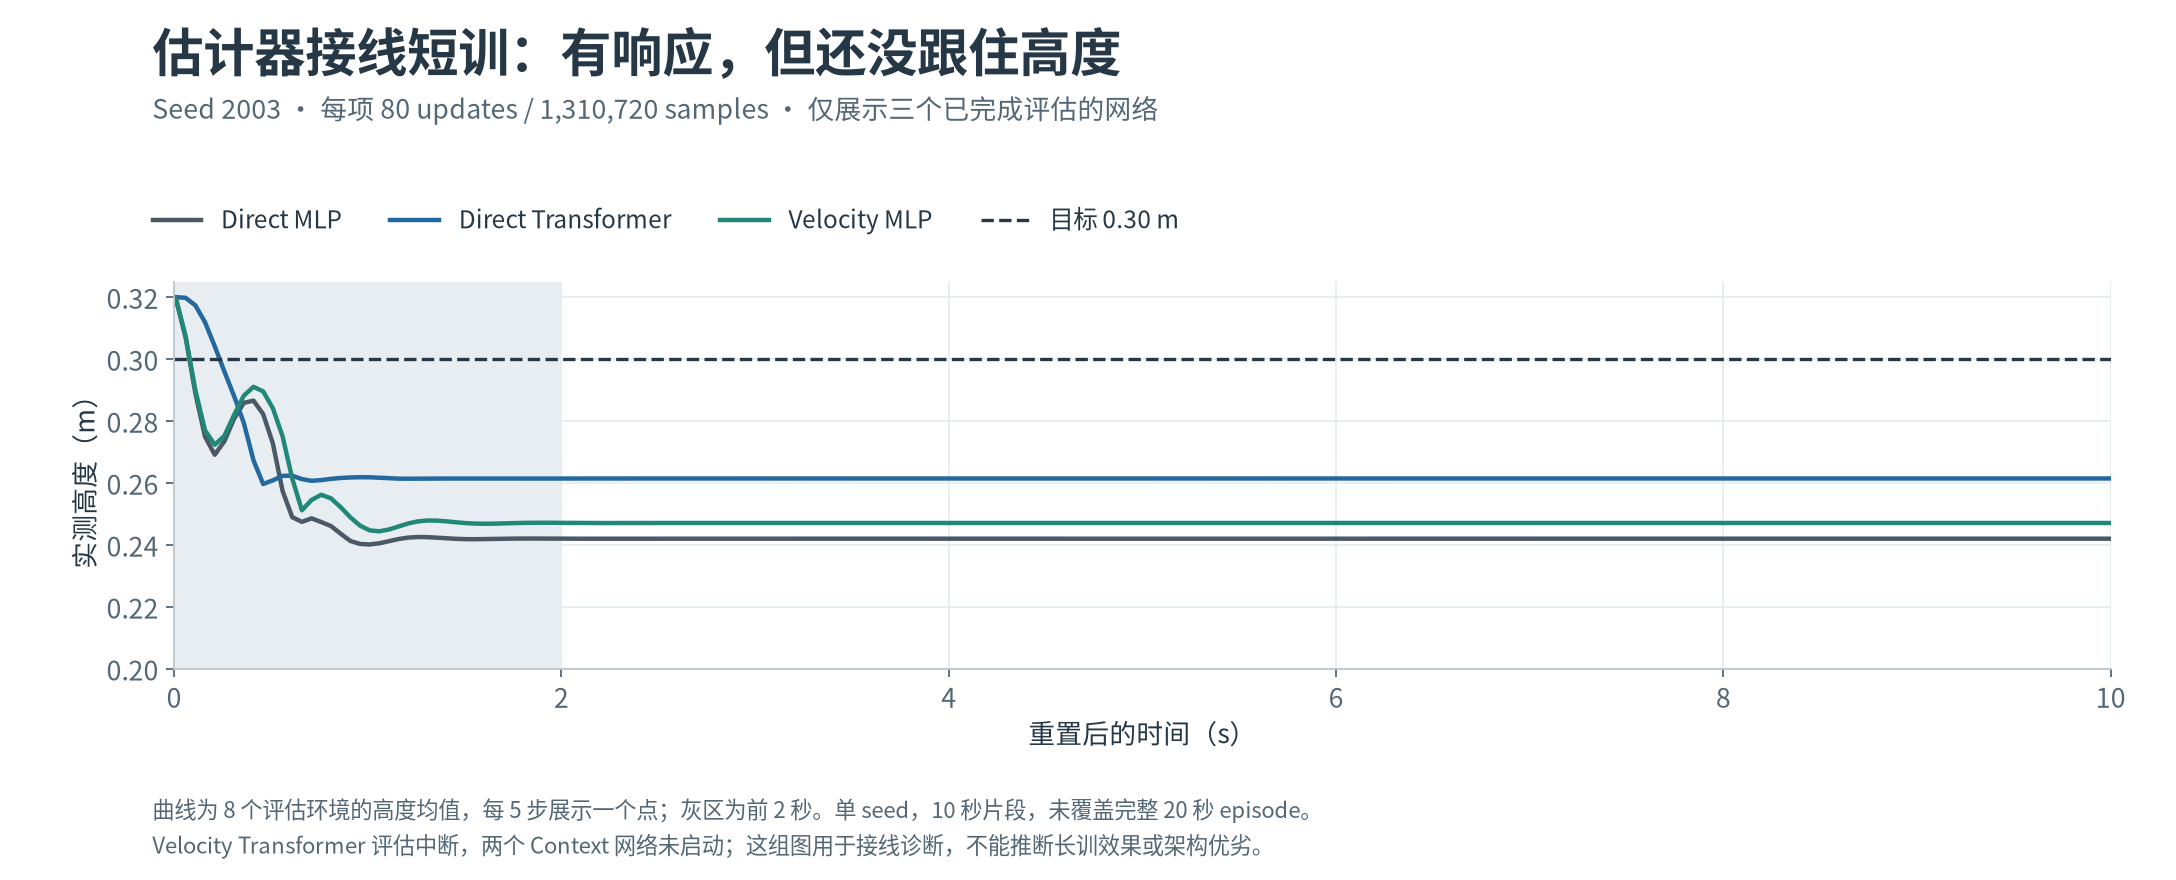
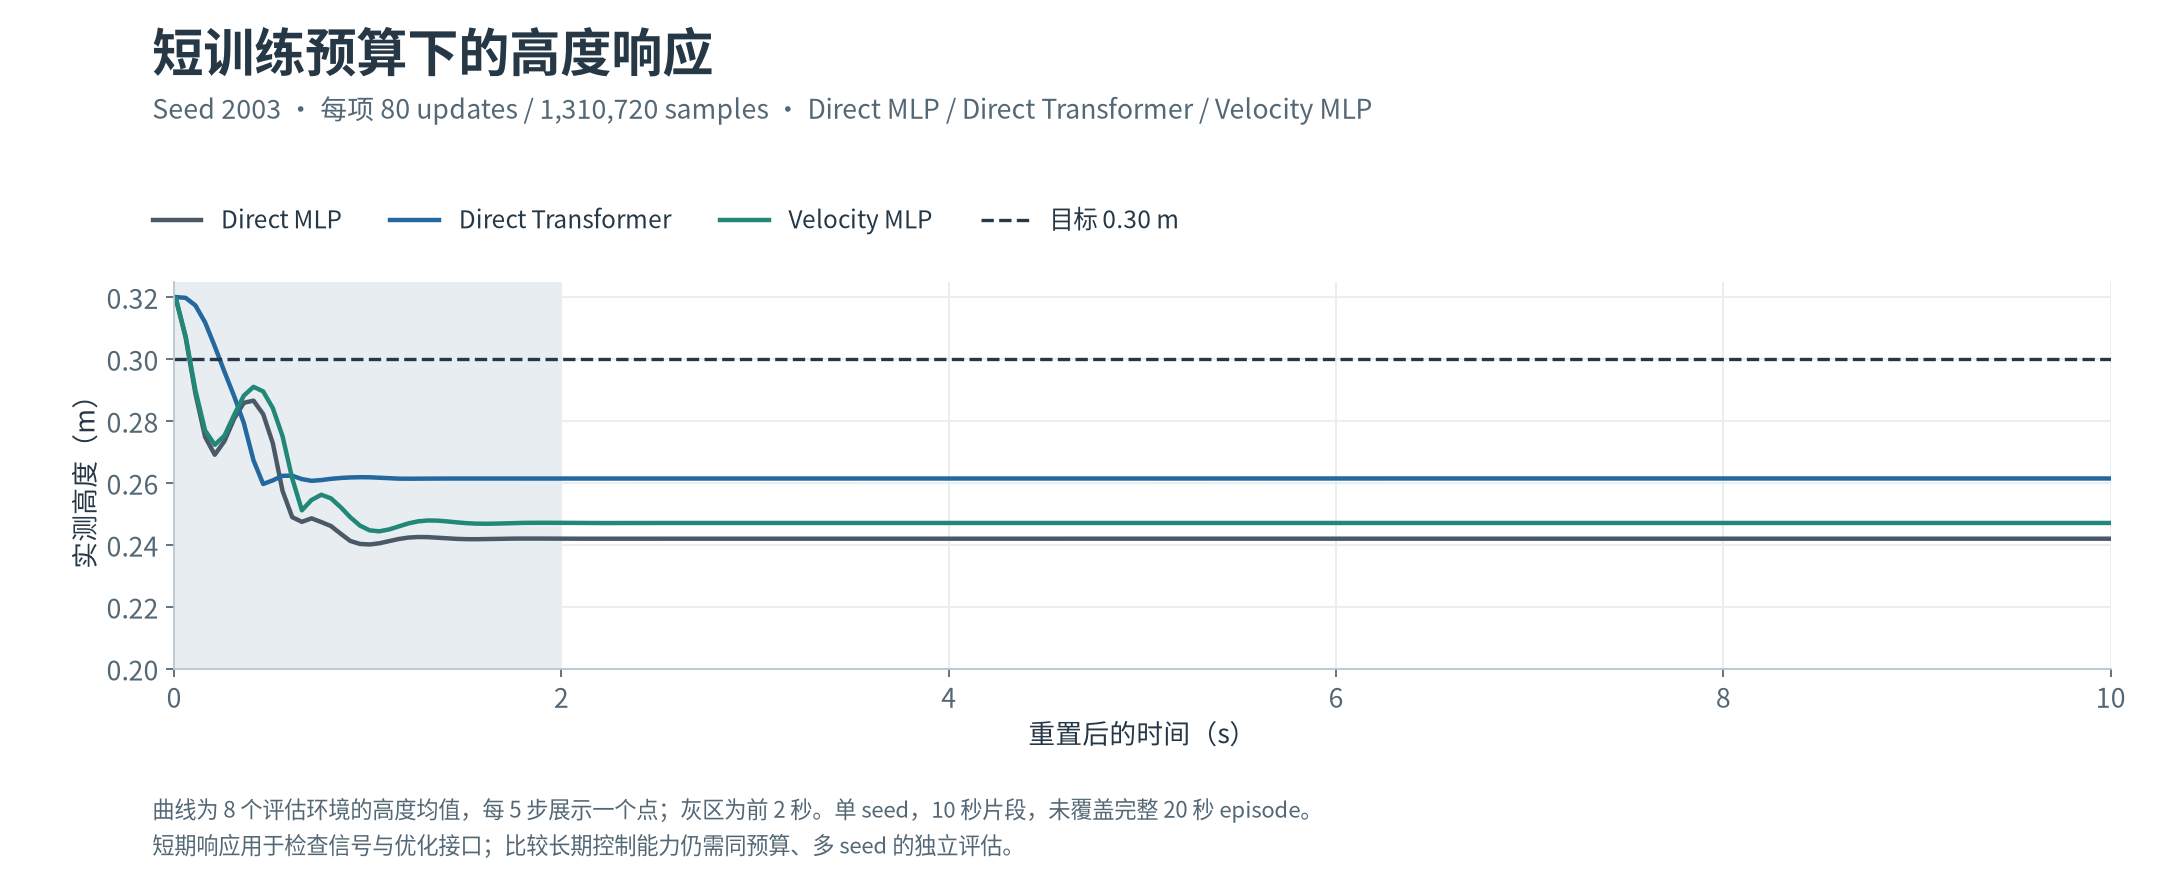
Focus README on architecture usage and experimental analysis

diff --git a/tools/readme_figures.py b/tools/readme_figures.py
@@ -244,8 +244,8 @@ def render():
     ax.set(xlabel="重置后的时间（s）", ylabel="实测高度（m）", xlim=(0, 10),
            ylim=(.20, max(.31, height_max) + .005))
     fig.legend(*ax.get_legend_handles_labels(), loc="upper left", bbox_to_anchor=(.06, .79), ncol=4, frameon=False, fontsize=11)
-    finish(fig, [ax], "估计器接线短训：有响应，但还没跟住高度", "Seed 2003 · 每项 80 updates / 1,310,720 samples · 仅展示三个已完成评估的网络",
-           "曲线为 8 个评估环境的高度均值，每 5 步展示一个点；灰区为前 2 秒。单 seed，10 秒片段，未覆盖完整 20 秒 episode。\nVelocity Transformer 评估中断，两个 Context 网络未启动；这组图用于接线诊断，不能推断长训效果或架构优劣。",
+    finish(fig, [ax], "短训练预算下的高度响应", "Seed 2003 · 每项 80 updates / 1,310,720 samples · Direct MLP / Direct Transformer / Velocity MLP",
+           "曲线为 8 个评估环境的高度均值，每 5 步展示一个点；灰区为前 2 秒。单 seed，10 秒片段，未覆盖完整 20 秒 episode。\n短期响应用于检查信号与优化接口；比较长期控制能力仍需同预算、多 seed 的独立评估。",
            "wiring-height.png")
     print("Rendered three README figures from hash-verified CSVs.")
 
